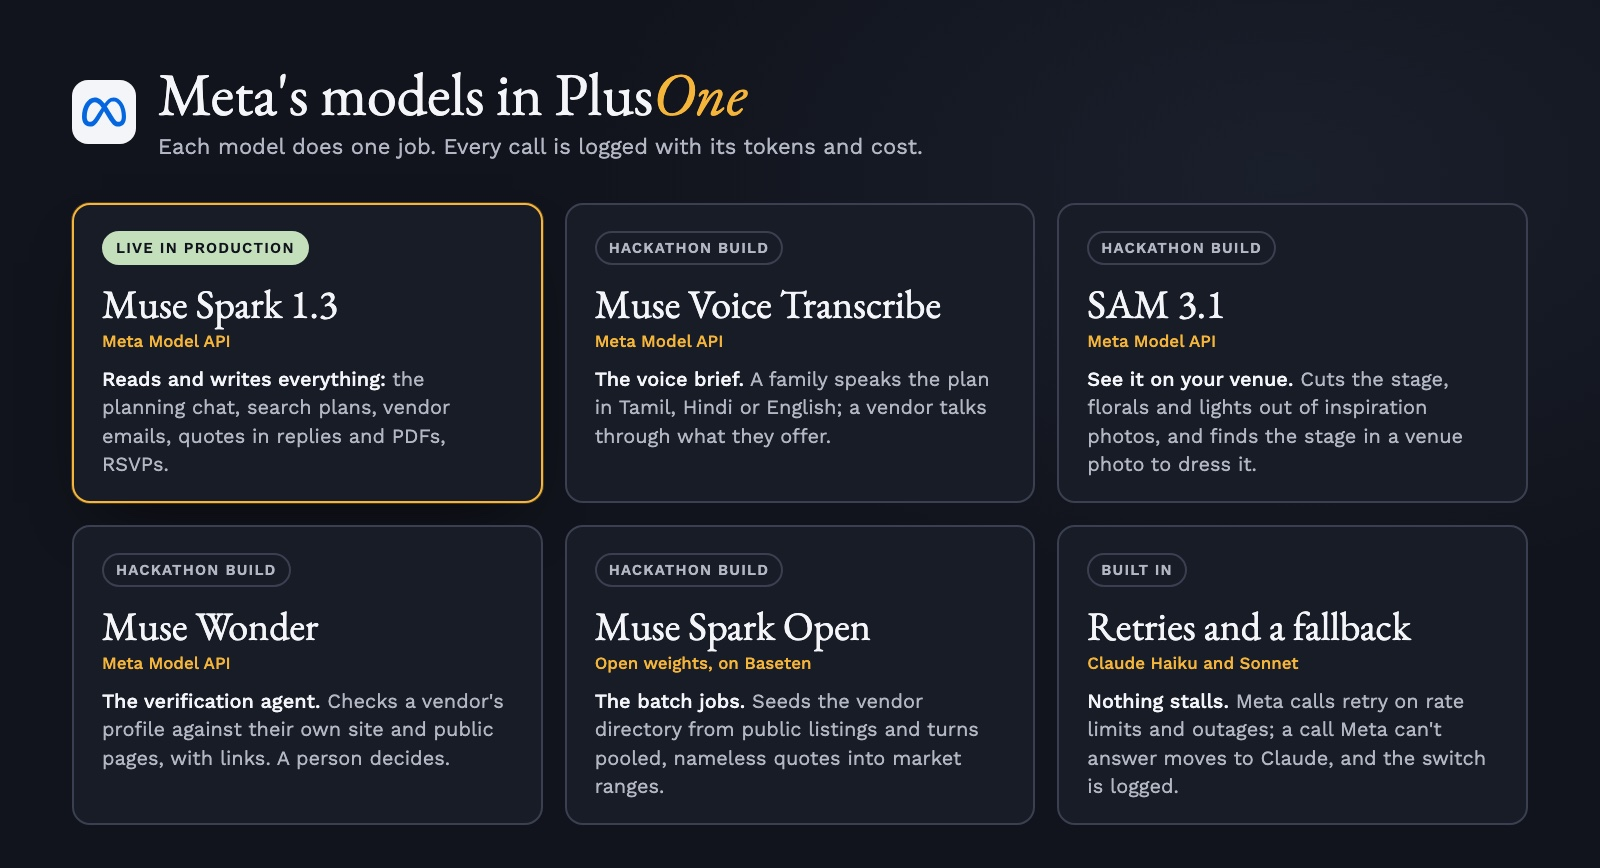
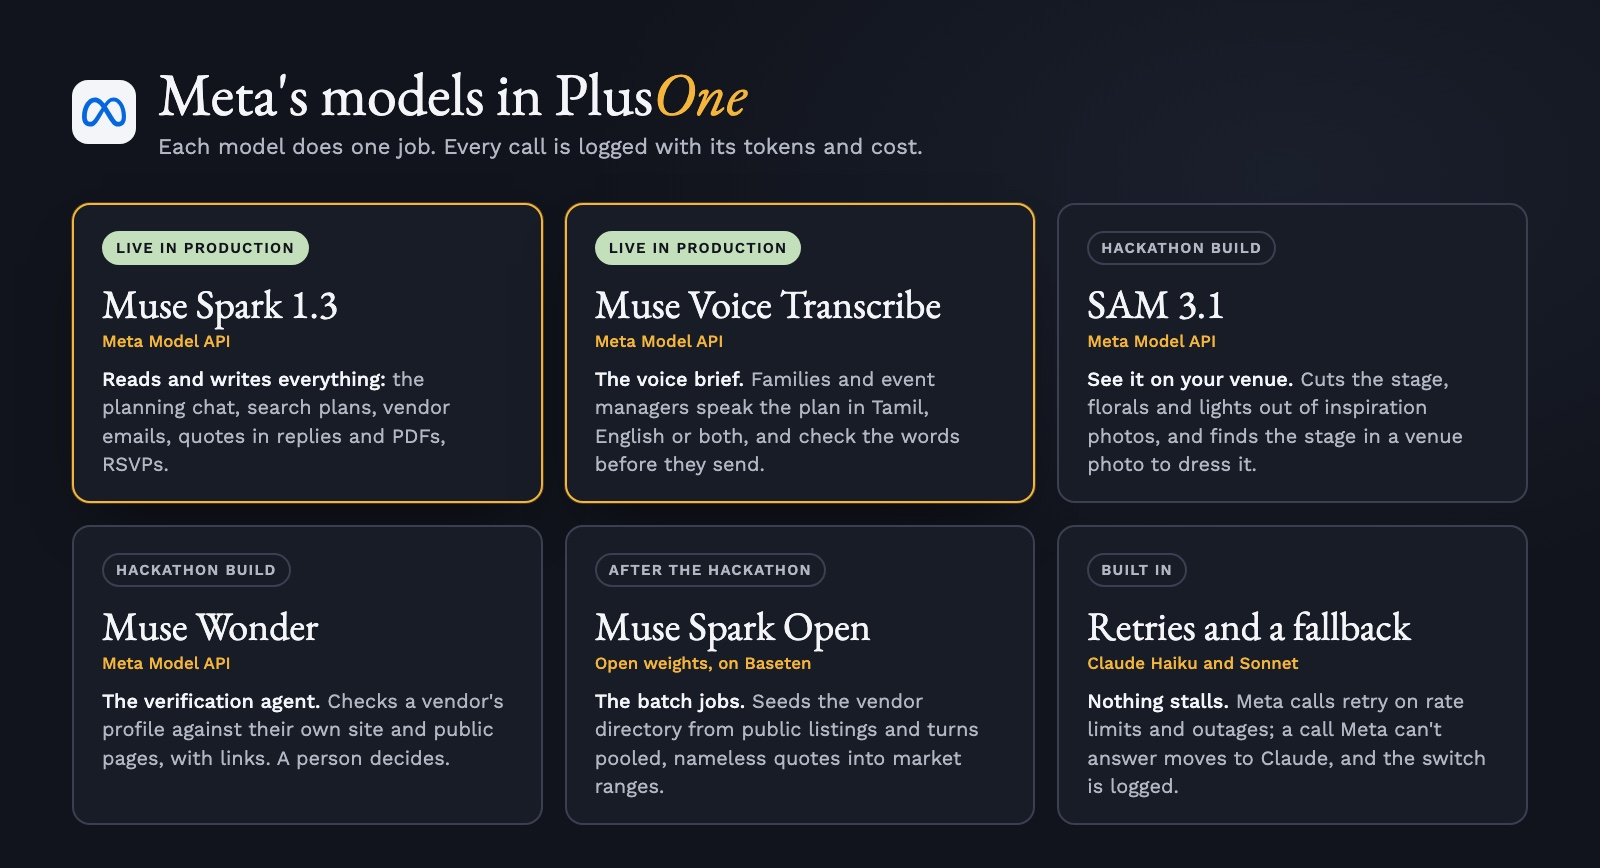
README: speaking the plan is live, with its own row in the tech table; 567 tests
The voice brief moves from "in the app by 30 Oct" to live in production,
with a real run beside the others: a note spoken into the live Today box
came back as text. The vendor check is built and joins Ops next. The
models card is re-rendered to match, and its Muse Spark Open tag now
says after the hackathon, as the table already did.

Changed region(s): [[0.3438, 0.4044, 0.6562, 0.591], [0.3438, 0.2177, 0.6562, 0.3111], [0.375, 0.6221, 0.5312, 0.6843]]

diff --git a/assets/src/meta-models.html b/assets/src/meta-models.html
@@ -42,11 +42,11 @@
       <div class="host">Meta Model API</div>
       <div class="what"><b>Reads and writes everything:</b> the planning chat, search plans, vendor emails, quotes in replies and PDFs, RSVPs.</div>
     </div>
-    <div class="m">
-      <span class="tag">Hackathon build</span>
+    <div class="m live">
+      <span class="tag">Live in production</span>
       <div class="name">Muse Voice Transcribe</div>
       <div class="host">Meta Model API</div>
-      <div class="what"><b>The voice brief.</b> A family speaks the plan in Tamil, Hindi or English; a vendor talks through what they offer.</div>
+      <div class="what"><b>The voice brief.</b> Families and event managers speak the plan in Tamil, English or both, and check the words before they send.</div>
     </div>
     <div class="m">
       <span class="tag">Hackathon build</span>
@@ -61,7 +61,7 @@
       <div class="what"><b>The verification agent.</b> Checks a vendor's profile against their own site and public pages, with links. A person decides.</div>
     </div>
     <div class="m">
-      <span class="tag">Hackathon build</span>
+      <span class="tag">After the hackathon</span>
       <div class="name">Muse Spark Open</div>
       <div class="host">Open weights, on Baseten</div>
       <div class="what"><b>The batch jobs.</b> Seeds the vendor directory from public listings and turns pooled, nameless quotes into market ranges.</div>

diff --git a/README.md b/README.md
@@ -15,7 +15,7 @@
 ![Event](https://img.shields.io/badge/event-Meta_Global_AI_Developer_Hackathon-f4b53a?style=flat-square&labelColor=11141c)
 ![Track](https://img.shields.io/badge/track-Startup-f4b53a?style=flat-square&labelColor=11141c)
 ![Status](https://img.shields.io/badge/status-working_end_to_end-c4dfbc?style=flat-square&labelColor=11141c)
-![Tests](https://img.shields.io/badge/tests-540_passing-c4dfbc?style=flat-square&labelColor=11141c)
+![Tests](https://img.shields.io/badge/tests-567_passing-c4dfbc?style=flat-square&labelColor=11141c)
 [![License](https://img.shields.io/badge/license-FSL--1.1--ALv2-b3b7c3?style=flat-square&labelColor=11141c)](LICENSE.md)
 
 <table align="center">
@@ -81,7 +81,7 @@ PlusOne began as a wedding planner and placed second at Convex's All Gas hackath
 
 | The theme asks | PlusOne's answer |
 |---|---|
-| **Bring Meta's models into your domain** | Event planning, on Meta's models end to end. Muse Spark reads replies, quotes and PDFs that mix Tamil and English into the same lines, live today. Being added during the hackathon: Muse Voice Transcribe for a spoken brief that switches between the two, SAM 3.1 on the customer's own venue photo, Muse Wonder checking a vendor's evidence, and Muse Glimmer on our own endpoint tagging vendors' portfolios |
+| **Bring Meta's models into your domain** | Event planning, on Meta's models end to end. Muse Spark reads replies, quotes and PDFs that mix Tamil and English into the same lines, and Muse Voice Transcribe hears a plan spoken in Tamil, English or both, both live today. Being added during the hackathon: SAM 3.1 on the customer's own venue photo, Muse Wonder checking a vendor's evidence (the agent is built), and Muse Glimmer on our own endpoint tagging vendors' portfolios |
 | **A problem you know firsthand** | The founders know it from planning events in their own families: vendors spread across calls, chats and spreadsheets, quotes that can't be compared, charges that turn up later. PlusOne began as a planner for exactly that |
 | **Free up time and mental space** | PlusOne does the legwork: it searches, writes from the event's own inbox, chases vendors up to three times, reads every reply and PDF into one unit and says what each quote leaves out. The host only decides |
 | **Make something possible that wasn't before** | A family planning a birthday gets what only a wedding with a planner got before: offers in the same lines, missing charges flagged and the market range. An event manager gets the same for every client's event, without chasing each vendor by phone. A vendor with no website gets found and answers briefs. A plan can be spoken in Tamil, and the decor seen on the real hall before anyone pays |
@@ -97,12 +97,12 @@ PlusOne began as a wedding planner and placed second at Convex's All Gas hackath
 | **The standard sheet:** what a quote must state for each kind of vendor (the unit, what's included, GST, transport, service, setup, overtime), shared by customers and vendors | Muse Spark reads each quote into it; fixed, tested rules do the rest | Live, 28 Oct (`convex/lib/standardSheet.ts`) |
 | **Missing charges flagged** against the sheet and the other quotes, and **Compare line by line** with the city's market range | Muse Spark reads the quotes; the gaps and the range are fixed, tested rules | Live, 28 Oct: missing charges, line by line, and each city's range from vendors' listed prices |
 | **A quote sent on WhatsApp:** add a photo or screenshot of a vendor's price list, a PDF or their pasted message, and it is read into the same lines as an emailed quote, landing in Compare | Muse Spark 1.3 (the photo goes in as an image) | Live, 28 Oct (`convex/sharedQuotes.ts`) |
-| **The voice brief:** speak the plan in Tamil, Hindi or English | Muse Voice Transcribe, Muse Spark | Audio encoder and Voice Transcribe adapter built by Muse Code and tested offline, 28 Oct (`convex/lib/wav.ts`, `convex/lib/voice.ts`); in the app by 30 Oct |
+| **The voice brief:** speak the plan in Tamil, English or both | Muse Voice Transcribe, Muse Spark | Live in production, 28 Oct: a microphone in the planning chat and the Today box; the words land in the box to check and send, and the recording is deleted once read. Built by Muse Code (`convex/voiceBrief.ts`, `src/components/VoiceButton.tsx`, with the encoder and adapter in `convex/lib/wav.ts` and `convex/lib/voice.ts`) |
 | **See it on your venue:** tap the stage in a venue photo and see the decor on the real space | SAM 3.1 | Adapter built and tested (`convex/lib/sam.ts`); the view by 1 Nov |
 | **PlusOne Partner:** vendors register, price packages on the standard sheet and answer a customer's brief | Voice sign-up: Muse Voice Transcribe, Muse Spark | Live, 28 Oct: its own sign-in, joining or claiming a listing, prices and offers on the standard sheet in each trade's own units with what's in the price, offers landing in the customer's Compare, and a vendors' demo of its own, separate from the customers'; its own address, partner.plusoneevents.site, built and going live; voice sign-up by 1 Nov |
 | **PlusOne Ops:** a verification agent gathers evidence about a vendor, with links; a person decides | Muse Wonder | Review queue with its checklist, evidence and decisions live 28 Oct; the Muse Wonder agent by 1 Nov |
 | **Muse Glimmer** portfolio tagging on our own Modal endpoint | Muse Glimmer (open weights) | Building, by 31 Oct |
-| WhatsApp and calling vendors from the app | | Building, by 1 Nov |
+| WhatsApp and calling vendors from the app | | The agent is built and tested (`convex/lib/wonder.ts`: web search and page reads, six checks, a source kept only if the run saw it); joining Ops next |
 
 Before the hackathon, PlusOne already planned an event from a conversation, found vendors, wrote to them from the event's inbox and put their quotes in one unit, on Claude. [Repository](#repository) gives the exact line between the two.
 
@@ -111,8 +111,8 @@ Before the hackathon, PlusOne already planned an event from a conversation, foun
 | Criterion (weight) | What PlusOne shows | Where to look |
 |---|---|---|
 | **Impact (30%)**: real-world potential, who benefits, could people use it, fit to the problem statement | **The pain:** planning is spread across calls, chats, email and spreadsheets, and no two quotes are written alike, so charges turn up late. **Who benefits:** families, teams and event managers planning events of any size, and vendors with no website or listing, who can't be found. **What PlusOne does:** one all-in-one app for the whole plan, and every quote and offer on the same lines, with missing charges flagged and the market range. **Real-world potential:** every event needs vendors and quotes, at every budget; the aim is to standardise how they are planned and bought, with four revenue streams. **Could people use it:** it is live at plusoneevents.site, free until launch, with a guest demo that needs no sign-up. **Fit:** Build for Your World, answered row by row above | [The business](#the-business), [How it works](#how-it-works) |
-| **Use of Meta AI tooling (25%)**: creative, beyond a basic integration, surprising capabilities | Each model does the job it is best at, chained into one flow. Today, Muse Spark reads every reply, PDF, quote and WhatsApp photo of a price list, in Tamil and English, into the same lines, and fixed rules then flag what each leaves out. Being added: Muse Voice Transcribe hears a spoken brief and Muse Spark turns it into the plan; SAM 3.1 finds the stage in a venue photo for the decor; Muse Wonder gathers evidence about a vendor; Muse Glimmer, open weights on our own endpoint, tags vendors' portfolio photos. Muse Code builds pieces of the app. Every call shows in Under the hood with its model, time and cost. Each piece's status is in the table above | [Meta's models in PlusOne](#metas-models-in-plusone) |
-| **Technical depth and execution (20%)**: sound, refined engineering, real craft | The model reads; fixed, tested rules decide what to ask next, when a plan is ready, when a quote may move the budget and what a quote leaves out. One wrapper sends structured output checked against Zod schemas, retries that honour `Retry-After`, falls back with a log and writes a cost row per call. Durable workflows, scheduling, webhooks and rate limits run on Convex, with 540 tests | [The tech, part by part](#the-tech-part-by-part), [Real runs](#real-runs) |
+| **Use of Meta AI tooling (25%)**: creative, beyond a basic integration, surprising capabilities | Each model does the job it is best at, chained into one flow. Today, Muse Spark reads every reply, PDF, quote and WhatsApp photo of a price list, in Tamil and English, into the same lines, and fixed rules then flag what each leaves out; Muse Voice Transcribe hears a spoken brief and Muse Spark turns it into the plan. Being added: SAM 3.1 finds the stage in a venue photo for the decor; Muse Wonder gathers evidence about a vendor (built, joining Ops next); Muse Glimmer, open weights on our own endpoint, tags vendors' portfolio photos. Muse Code builds pieces of the app. Every call shows in Under the hood with its model, time and cost. Each piece's status is in the table above | [Meta's models in PlusOne](#metas-models-in-plusone) |
+| **Technical depth and execution (20%)**: sound, refined engineering, real craft | The model reads; fixed, tested rules decide what to ask next, when a plan is ready, when a quote may move the budget and what a quote leaves out. One wrapper sends structured output checked against Zod schemas, retries that honour `Retry-After`, falls back with a log and writes a cost row per call. Durable workflows, scheduling, webhooks and rate limits run on Convex, with 567 tests | [The tech, part by part](#the-tech-part-by-part), [Real runs](#real-runs) |
 | **Demo (25%)**: working, impressive, holds up live, a video worth watching | A live guest demo with no sign-up and three sample events. It holds up live with retries, a fallback, rate limits and made-up vendors, so nothing is really sent. A three-minute video of the new work | [The demo](https://app.plusoneevents.site/demo) |
 
 ## The business
@@ -128,17 +128,17 @@ Every fee is disclosed. Fair pricing here means informed and comparable: PlusOne
 
 ## Meta's models in PlusOne
 
-<img src="assets/meta-models.jpg" width="100%" alt="Meta's models in PlusOne: Muse Spark 1.3 live in production for all reading and writing; Muse Voice Transcribe, SAM 3.1, Muse Wonder and Muse Glimmer being built during the hackathon; retries and a Claude fallback built in">
+<img src="assets/meta-models.jpg" width="100%" alt="Meta's models in PlusOne: Muse Spark 1.3 live in production for all reading and writing; Muse Voice Transcribe live in production; SAM 3.1, Muse Wonder and Muse Glimmer being built during the hackathon; Muse Spark Open after it; retries and a Claude fallback built in">
 
 | Model | Where it works in PlusOne | Status |
 |---|---|---|
 | **Muse Spark 1.3** (Meta Model API) | Every reading and writing step: the planning conversation, search plans and vendor ranking, inquiries and follow-ups, quotes in replies and PDFs, RSVPs, guest-list imports, palettes and the "Tell PlusOne" box. Structured answers come back as JSON Schema, checked against the same Zod schemas | Live in production since 27 Oct 2026 |
-| **Muse Voice Transcribe** | The voice brief: a family or an event manager speaks the plan in Tamil, Hindi or English; a vendor talks through what they offer | Adapter built and tested offline, 28 Oct; in the app by 30 Oct |
+| **Muse Voice Transcribe** | The voice brief: a family or an event manager speaks the plan in Tamil, English or both, in the planning chat or the Today box; next, a vendor talks through what they offer | Live in production since 28 Oct 2026 |
 | **SAM 3.1** | Cuts the stage, florals and lights out of inspiration photos for the decorators' brief, and finds the stage in a venue photo to dress it | Adapter built and tested (`convex/lib/sam.ts`: one concept or up to 16 tapped objects, masks read with `@meta-sam/parser`); the venue view is next |
 | **Muse Wonder** | The verification agent in PlusOne Ops: checks a vendor's profile against their own site and public pages, with links; a person decides | Building, by 1 Nov |
 | **Muse Spark Open** (open weights) | Batch jobs such as seeding the vendor directory from public listings | After the hackathon |
 | **Muse Glimmer 30B** (open weights, on our own Modal endpoint) | Tags a Partner vendor's portfolio photos with the standard sheet's lines (stage backdrop, entrance arch, live counters), so past work sits beside an offer's line; flags likely stock photos for Ops | Planned, by 31 Oct |
-| **Muse Code** (Meta's coding agent) | Builds bounded pieces of PlusOne from a written brief, which are then reviewed and tested before they are committed; so far the SAM 3.1 adapter and the voice brief's audio encoder and Voice Transcribe adapter. Every session is logged in [`devlog.md`](devlog.md#muse-code) | In use since 27 Oct 2026 |
+| **Muse Code** (Meta's coding agent) | Builds bounded pieces of PlusOne from a written brief, which are then reviewed and tested before they are committed; so far the SAM 3.1 adapter, the voice brief (its audio encoder, the Voice Transcribe adapter and the brief in the app) and the Muse Wonder vendor check. Every session is logged in [`devlog.md`](devlog.md#muse-code) | In use since 27 Oct 2026 |
 
 **See it at work:** in any event, the **Under the hood** button in the top bar lists every step PlusOne ran for that event, with the Meta model that did it, how long it took and what it cost. In the demo it opens on a recorded run: Muse Spark reading the three caterers' replies into the lines Compare shows. Ask "We're now 140 people" on Today and watch a new step appear.
 
@@ -229,8 +229,9 @@ PlusOne Ops, at `/ops`, is the PlusOne team's side. A queue holds vendors and li
 |---|---|---|---|
 | Muse Spark in production | A made-up guest reply ("Both of us will come. My husband is allergic to peanuts.") read by `muse-spark-1.3` through the production backend: coming, 2 people, the peanut allergy caught, valid structured output first time; 1,214 tokens in, 880 out, $0.0053, written to `modelCalls` | 27 Oct 2026 | `npx convex run claude:readRsvpReply` against production |
 | Muse Spark reading the demo's quotes | The three caterers' replies read on `muse-spark-1.3` in production, each right first time: Annam ₹66,150 in three lines (150 plates at ₹380, ₹6,000 service, ₹3,150 GST), priced for 150; Saapadu ₹62,000 all in for 120 with the ₹480 extra plate kept apart; Kaveri ₹54,000 plus ₹2,500 for vessels and staff, GST extra. 7.1–14.4 s each, 4,329 tokens in and 6,570 out, $0.033 in all, no fallback | 28 Oct 2026 | `npx convex run claude:readDemoQuotes`; the rows are Under the hood's recorded run |
+| Muse Voice Transcribe in production | A note spoken into the live app's Today box came back as text in the box, first try; the recording was deleted after reading | 28 Oct 2026 | By hand on app.plusoneevents.site, in the founder's own voice |
 | Muse Spark's reasoning | At `reasoning_effort: low` a one-line reply used 194 reasoning tokens; capped at 400 output tokens, reasoning took 398 and the answer came back empty. Every call site allows 16,000 | 27 Oct 2026 | Two direct Chat Completions calls |
-| Tests | 540 passed in 51 files, including the quote comparison, the standard sheet and its missing-charge rules (pinned on the guest demo's quotes), the marketplace's listings, briefs, offers and price ranges, the Meta provider switch and its fallback, the cost record, the planning conversation's rules, the board's geometry, the co-pilot's route and a contrast check of every text colour in the light and dark themes | 28 Oct 2026 | `npm test` |
+| Tests | 567 passed in 53 files, including the quote comparison, the standard sheet and its missing-charge rules (pinned on the guest demo's quotes), the marketplace's listings, briefs, offers and price ranges, the Meta provider switch and its fallback, the cost record, the voice brief's limits and clean-up, the vendor check's tool loop and source rules, the planning conversation's rules, the board's geometry, the co-pilot's route and a contrast check of every text colour in the light and dark themes | 28 Oct 2026 | `npm test` |
 | Typecheck, app and backend | Clean | 28 Oct 2026 | `npm run typecheck` |
 | The three sample events | Each opened from `/demo` for a new visitor (the birthday, `?sample=housewarming`, `?sample=office`); eleven screens captured with 0 page errors; at phone width (390 px) the page is exactly as wide as the screen, with no sideways scroll | 25 Oct 2026 | Headless Chrome (playwright-core) against the dev server and the dev backend; these are the screenshots in this README |
 | Vendor search terms, old against new | Vendors' own websites among results kept: 9 of 27 with the new short terms against 5 of 26 with the old single sentence, for about half the credits | 20 Oct 2026 | A one-off before/after run of three briefs against Firecrawl |
@@ -246,6 +247,7 @@ PlusOne Ops, at `/ops`, is the PlusOne team's side. A queue holds vendors and li
 | Event types | Own code | Sixteen types in three groups (family, work and community, other), with the words each one uses, in `convex/lib/occasion.ts` |
 | Today | Own code, no model | PlusOne's route for the event in `convex/copilot.ts`, drawn by `src/pages/TodayPage.tsx`; the "Tell PlusOne" box goes to `convex/assistant.ts`, and anything it proposes to change waits on a card until someone presses its button |
 | Reading and writing | Meta's Muse Spark (`muse-spark-1.3`, Standard) through the Model API's Chat Completions, with structured output as JSON Schema; Claude (`claude-sonnet-5-5`, `claude-haiku-5-5`) as the fallback | `convex/lib/models.ts` picks the provider from `MODEL_PROVIDER`, sends one house style ahead of every request, retries Meta on 429/500/503, moves a call to Claude when Meta can't answer, and writes each call's tokens and list-price cost to `modelCalls`; adapters in `convex/lib/meta.ts` and `convex/lib/claude.ts` |
+| Speaking the plan | Muse Voice Transcribe (`muse-voice-transcribe-1.0`) | The browser records and encodes a 16 kHz mono WAV (`src/components/VoiceButton.tsx`, `convex/lib/wav.ts`); `convex/voiceBrief.ts` checks the caller and their allowance, sends it with our customers' own words as hints (`convex/lib/voiceWords.ts`) through the adapter in `convex/lib/voice.ts`, deletes the recording once read and writes a cost row at $0.18 an hour, by the second. No fallback: if Meta can't hear it, the person types |
 | Cost record | Own code | `convex/modelCalls.ts` writes one row per model call; prices per million tokens for Muse Spark, Muse Wonder and the Claude fallback in `convex/lib/modelCost.ts`. The row is written before the answer is checked, since an answer that fails validation was still paid for |
 | Vendor search | Firecrawl | Short search terms in `convex/lib/searchTerms.ts`; research, ranking and contact and pricing pages in `convex/research.ts` and `convex/firecrawl.ts`, with what may be read decided in `convex/lib/scrapePolicy.ts` and a cache in `convex/webCache.ts` |
 | The event's inbox | AgentMail | One inbox per event, named after the hosts' first names on the deployment's domain, in `convex/agentmail.ts` and `convex/lib/inboxName.ts`; sending, replies and follow-ups in `convex/outreach.ts`, `convex/inbound.ts` and `convex/followups.ts`; the do-not-contact list in `convex/doNotContact.ts`. Each deployment keeps its inboxes in its own AgentMail pod, with a webhook that hears only that pod |
